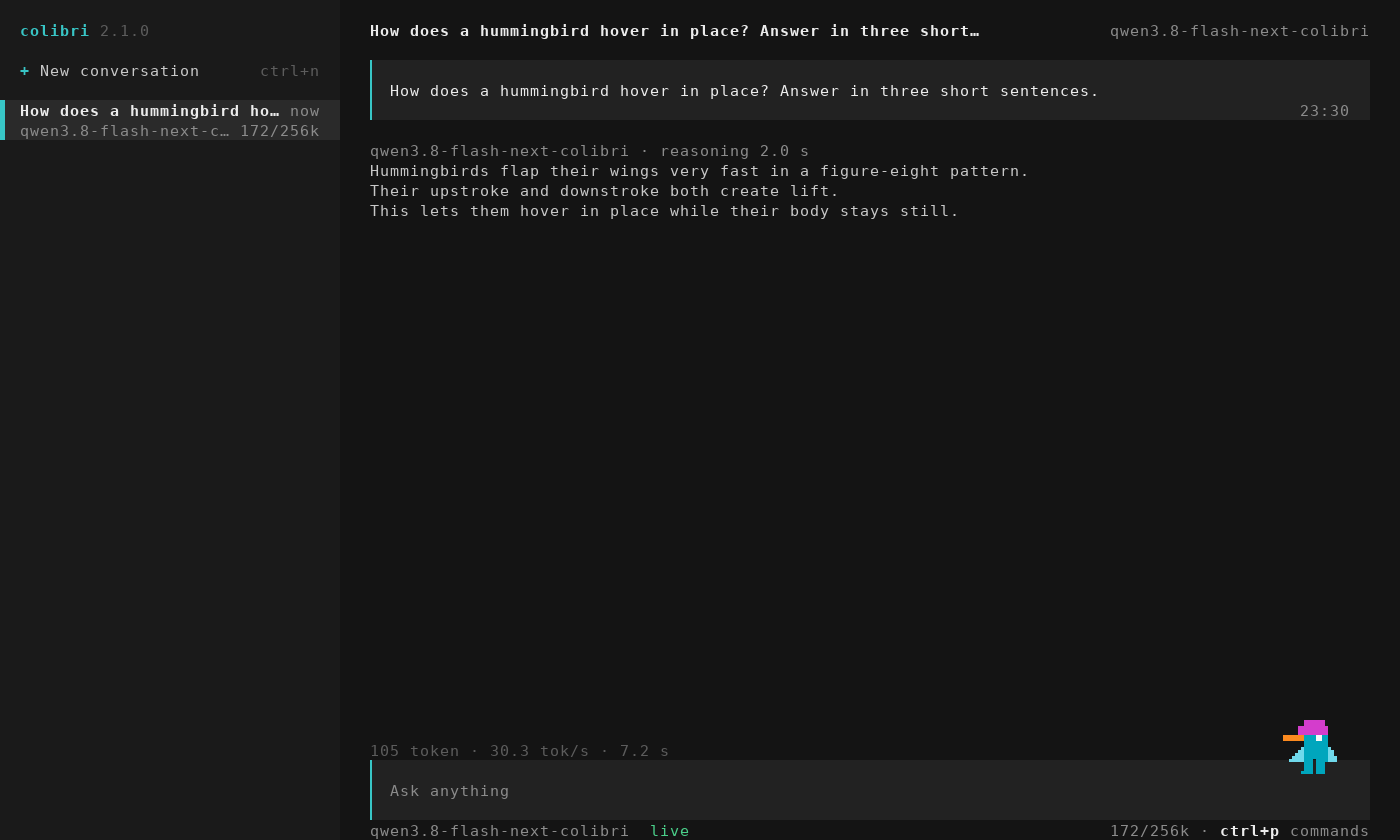
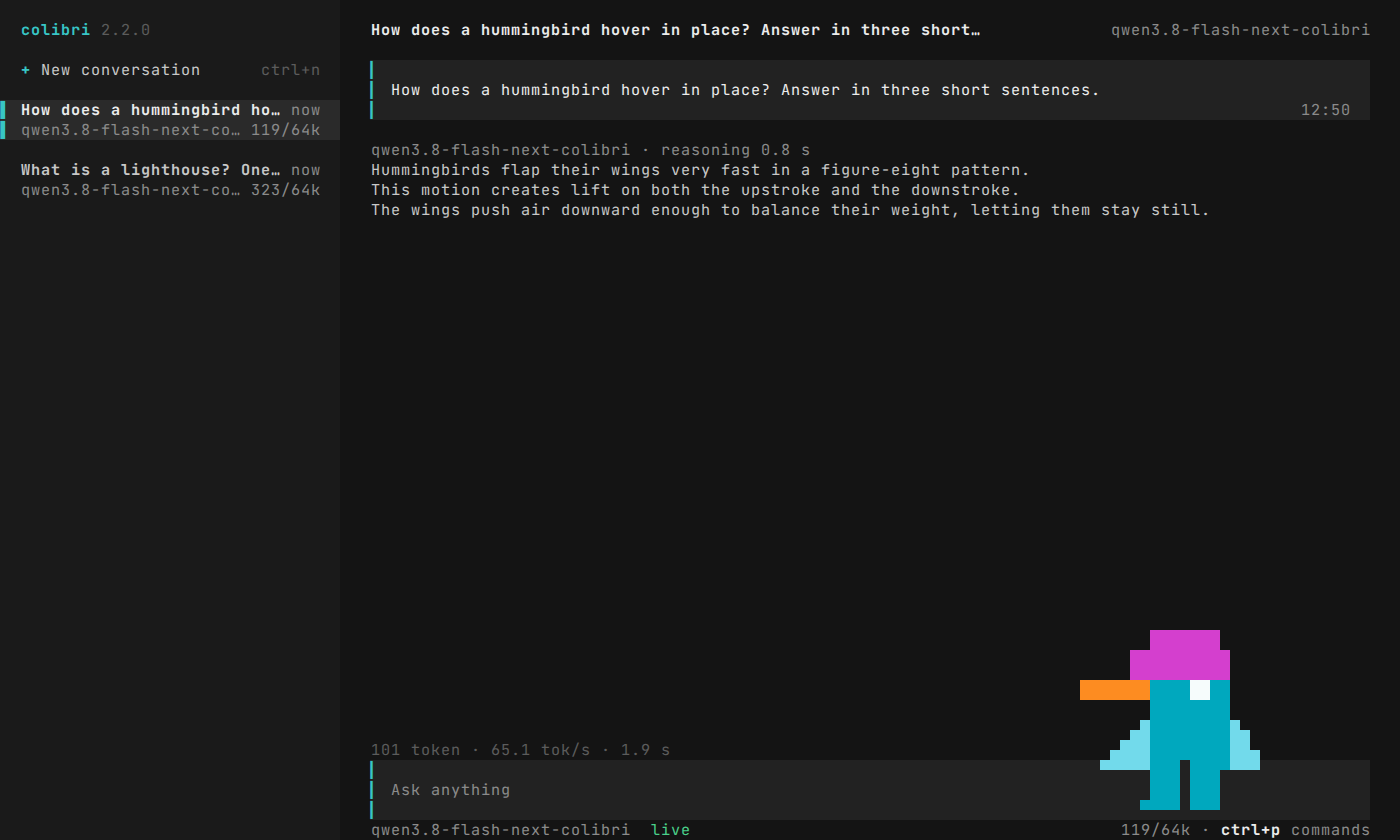
TUI screenshots taken again on 2.2.0 at a 64K context; the expert map counts the CUDA chain's host pool as RAM

diff --git a/c/qwen38.c b/c/qwen38.c
@@ -1953,6 +1953,16 @@ static int q38_emap_on_card(Model *m,int i,int e){
     (void)m;return 0;
 #endif
 }
+/* EMAP's tier 1 also for the CUDA chain's host pool: page-locked RAM the card reads over the bus
+ * (q38cc_pool_init), where the experts the card leaves live when the RAM cache holds none of them */
+static int q38_emap_in_pool(Model *m,int i,int e){
+#ifdef COLI_CUDA
+    Q38CChain *ch=q38cc_of(m);
+    return ch&&ch->ok&&ch->pool_of&&ch->pool_of[(size_t)i*m->c.experts+e]>=0;
+#else
+    (void)m;(void)i;(void)e;return 0;
+#endif
+}
 static void serve_emap(Model *m){
     const Cfg *c=&m->c; int E=c->experts, rows=c->layers;
     char *hex=(char*)malloc((size_t)rows*E*2+1); int w=0;
@@ -1960,7 +1970,7 @@ static void serve_emap(Model *m){
         LCache *lc=&m->cache[i];
         for(int e=0;e<E;e++){
             int si=lc->by_expert?lc->by_expert[e]:-1;
-            int b=(q38_emap_on_card(m,i,e)?2:si>=0&&si<lc->n&&lc->slots[si].eid==e?1:0)<<6;   /* 2 = on the GPU */
+            int b=(q38_emap_on_card(m,i,e)?2:(si>=0&&si<lc->n&&lc->slots[si].eid==e)||q38_emap_in_pool(m,i,e)?1:0)<<6;   /* 2 on the GPU, 1 in RAM */
             hex[w++]="0123456789abcdef"[b>>4]; hex[w++]="0123456789abcdef"[b&15];
         }
     }

diff --git a/docs/tui.md b/docs/tui.md
@@ -8,7 +8,7 @@ the expert map reads `/experts`.
 <p align="center">
   <img src="media/tui/tui-chat.png" width="900" alt="the terminal UI: a conversation on the left, a question, the reasoning folded, the answer, its speed, and the hummingbird sitting on the input box">
 </p>
-<p align="center"><em>Qwen3.8-Flash-Next on an RTX PRO 4000 through <code>coli serve</code>, at a 256K context.</em></p>
+<p align="center"><em>Qwen3.8-Flash-Next on an RTX PRO 4000 through <code>coli serve</code>, at a 64K context.</em></p>
 
 ## Start it
 
@@ -58,12 +58,12 @@ The release archives carry it next to `coli`.
 <p align="center">
   <img src="media/tui/tui-monitor.png" width="900" alt="the monitor: the model's state, the live numbers, the engine's CPU and RAM, the GPU and its VRAM, the tok/s chart, the last turn's cards">
 </p>
-<p align="center"><em>The monitor on the same server: 20 cores, 39.7 GB of engine RAM, 19.8 of 23.9 GB of VRAM.</em></p>
+<p align="center"><em>The monitor on the same server: 20 cores, 45.5 GB of engine RAM, 21.9 of 23.9 GB of VRAM.</em></p>
 
 <p align="center">
   <img src="media/tui/tui-map.png" width="900" alt="the chat with the expert map open: 48 layers of 512 experts, the ones the last turn used lit">
 </p>
-<p align="center"><em>The expert map: 10,831 of Qwen3.8's 24,576 experts in the last answer.</em></p>
+<p align="center"><em>The expert map: Qwen3.8's 48 layers of 512 experts, those the last answer used lit; 29% of them on the card, 71% in RAM.</em></p>
 
 ## The hummingbird
 

diff --git a/CHANGELOG.md b/CHANGELOG.md
@@ -659,7 +659,8 @@ Format follows [Keep a Changelog](https://keepachangelog.com/).
 
 - **The expert map shows Qwen3.8's experts on a CUDA card.** Qwen3.8's map for the chat page and `coli tui`
   read the Vulkan tier only, so on CUDA every expert the card held showed as in RAM or on the disk ("VRAM 0%").
-  It now reads the CUDA tier too, and the CUDA chain's own slots where it holds the arena.
+  It now reads the CUDA tier too and the CUDA chain's own slots where it holds the arena, and counts the
+  chain's host pool (page-locked RAM the card reads over the bus) as RAM, where it showed as the disk.
 
 - **A GGUF's reads no longer queue one behind the other on Windows.** `gguf_read` read through the
   descriptor `open()` gives, a synchronous file object, and Windows runs one I/O at a time on one:

diff --git a/README.ru.md b/README.ru.md
@@ -329,7 +329,7 @@ curl -s http://127.0.0.1:8000/v1/systemone -H 'Content-Type: application/json' -
 <p align="center">
   <img src="docs/media/tui/tui-chat.png" width="900" alt="терминальный интерфейс: разговоры, вопрос, свёрнутые рассуждения, ответ, его скорость и колибри на поле ввода">
 </p>
-<p align="center"><em>Qwen3.8-Flash-Next на RTX PRO 4000 через <code>coli serve</code>, с контекстом 256K.</em></p>
+<p align="center"><em>Qwen3.8-Flash-Next на RTX PRO 4000 через <code>coli serve</code>, с контекстом 64K.</em></p>
 
 ## Использование из других приложений
 

diff --git a/README.de.md b/README.de.md
@@ -536,7 +536,7 @@ laufenden `coli serve` oder startet eines mit `--model`. Siehe [docs/tui.md](doc
 <p align="center">
   <img src="docs/media/tui/tui-chat.png" width="900" alt="die Terminal-Oberfläche: die Unterhaltungen, eine Frage, das eingeklappte Reasoning, die Antwort, ihre Geschwindigkeit und der Kolibri auf dem Eingabefeld">
 </p>
-<p align="center"><em>Qwen3.8-Flash-Next auf einer RTX PRO 4000 über <code>coli serve</code>, mit einem Kontext von 256K.</em></p>
+<p align="center"><em>Qwen3.8-Flash-Next auf einer RTX PRO 4000 über <code>coli serve</code>, mit einem Kontext von 64K.</em></p>
 
 ## Aus anderen Apps nutzen
 

diff --git a/README.pt-BR.md b/README.pt-BR.md
@@ -539,7 +539,7 @@ o terminal desenha sixel (Windows Terminal, foot, WezTerm). Ele se conecta a um
 <p align="center">
   <img src="docs/media/tui/tui-chat.png" width="900" alt="a interface no terminal: as conversas, uma pergunta, o raciocínio recolhido, a resposta, a sua velocidade e o colibri sobre a caixa de texto">
 </p>
-<p align="center"><em>Qwen3.8-Flash-Next numa RTX PRO 4000 através do <code>coli serve</code>, com um contexto de 256K.</em></p>
+<p align="center"><em>Qwen3.8-Flash-Next numa RTX PRO 4000 através do <code>coli serve</code>, com um contexto de 64K.</em></p>
 
 ## Use-o a partir de outras aplicações
 

diff --git a/README.fr.md b/README.fr.md
@@ -550,7 +550,7 @@ rattache à un `coli serve` en cours d'exécution, ou en démarre un avec `--mod
 <p align="center">
   <img src="docs/media/tui/tui-chat.png" width="900" alt="l'interface du terminal : les conversations, une question, le raisonnement replié, la réponse, sa vitesse, et le colibri sur la zone de saisie">
 </p>
-<p align="center"><em>Qwen3.8-Flash-Next sur une RTX PRO 4000 via <code>coli serve</code>, avec un contexte de 256K.</em></p>
+<p align="center"><em>Qwen3.8-Flash-Next sur une RTX PRO 4000 via <code>coli serve</code>, avec un contexte de 64K.</em></p>
 
 ## Utiliser depuis d'autres applications
 

diff --git a/README.it.md b/README.it.md
@@ -544,7 +544,7 @@ il terminale disegna sixel (Terminale di Windows, foot, WezTerm). Si collega a u
 <p align="center">
   <img src="docs/media/tui/tui-chat.png" width="900" alt="l'interfaccia nel terminale: le conversazioni, una domanda, il ragionamento chiuso, la risposta, la sua velocità e il colibrì sulla casella di testo">
 </p>
-<p align="center"><em>Qwen3.8-Flash-Next su una RTX PRO 4000 attraverso <code>coli serve</code>, con un contesto da 256K.</em></p>
+<p align="center"><em>Qwen3.8-Flash-Next su una RTX PRO 4000 attraverso <code>coli serve</code>, con un contesto da 64K.</em></p>
 
 ## Usarlo da altre app
 

diff --git a/README.ja.md b/README.ja.md
@@ -327,7 +327,7 @@ curl -s http://127.0.0.1:8000/v1/systemone -H 'Content-Type: application/json' -
 <p align="center">
   <img src="docs/media/tui/tui-chat.png" width="900" alt="ターミナル UI：会話の一覧、質問、折りたたまれた推論、回答とその速度、入力欄にとまるハチドリ">
 </p>
-<p align="center"><em>RTX PRO 4000 上の Qwen3.8-Flash-Next、<code>coli serve</code> 経由、コンテキスト 256K。</em></p>
+<p align="center"><em>RTX PRO 4000 上の Qwen3.8-Flash-Next、<code>coli serve</code> 経由、コンテキスト 64K。</em></p>
 
 ## ほかのアプリから使う
 

diff --git a/README.es.md b/README.es.md
@@ -537,7 +537,7 @@ donde la terminal dibuja sixel (Terminal de Windows, foot, WezTerm). Se conecta 
 <p align="center">
   <img src="docs/media/tui/tui-chat.png" width="900" alt="la interfaz de terminal: las conversaciones, una pregunta, el razonamiento plegado, la respuesta, su velocidad y el colibrí en la caja de entrada">
 </p>
-<p align="center"><em>Qwen3.8-Flash-Next en una RTX PRO 4000 mediante <code>coli serve</code>, con un contexto de 256K.</em></p>
+<p align="center"><em>Qwen3.8-Flash-Next en una RTX PRO 4000 mediante <code>coli serve</code>, con un contexto de 64K.</em></p>
 
 ## Usarlo desde otras apps
 

diff --git a/README.id.md b/README.id.md
@@ -559,7 +559,7 @@ berjalan, atau menjalankan satu dengan `--model`. Lihat [docs/tui.md](docs/tui.m
 <p align="center">
   <img src="docs/media/tui/tui-chat.png" width="900" alt="antarmuka terminal: daftar percakapan, sebuah pertanyaan, penalaran terlipat, jawaban dan kecepatannya, serta kolibri di atas kotak input">
 </p>
-<p align="center"><em>Qwen3.8-Flash-Next pada RTX PRO 4000 melalui <code>coli serve</code>, dengan konteks 256K.</em></p>
+<p align="center"><em>Qwen3.8-Flash-Next pada RTX PRO 4000 melalui <code>coli serve</code>, dengan konteks 64K.</em></p>
 
 ## Gunakan dari aplikasi lain
 

diff --git a/README.zh-TW.md b/README.zh-TW.md
@@ -449,7 +449,7 @@ curl -s http://127.0.0.1:8000/v1/systemone -H 'Content-Type: application/json' -
 <p align="center">
   <img src="docs/media/tui/tui-chat.png" width="900" alt="終端介面：對話列表、一個問題、摺疊的推理、回答及其速度，以及停在輸入框上的蜂鳥">
 </p>
-<p align="center"><em>Qwen3.8-Flash-Next 在 RTX PRO 4000 上透過 <code>coli serve</code> 執行，上下文 256K。</em></p>
+<p align="center"><em>Qwen3.8-Flash-Next 在 RTX PRO 4000 上透過 <code>coli serve</code> 執行，上下文 64K。</em></p>
 
 ## 從其他應用程式使用
 
